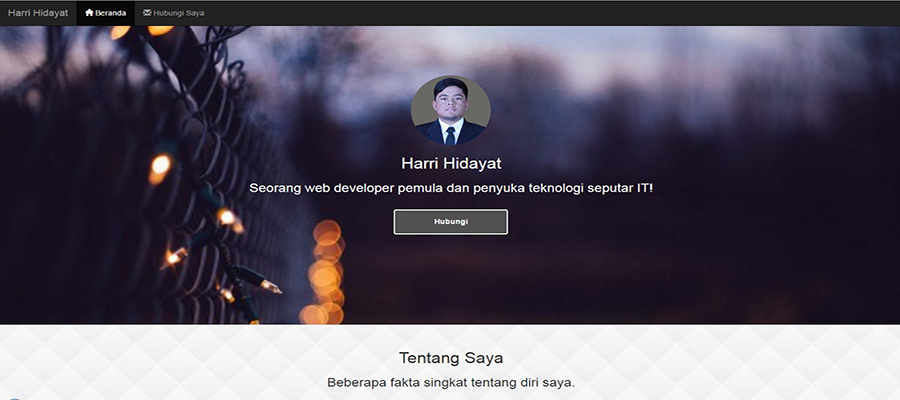
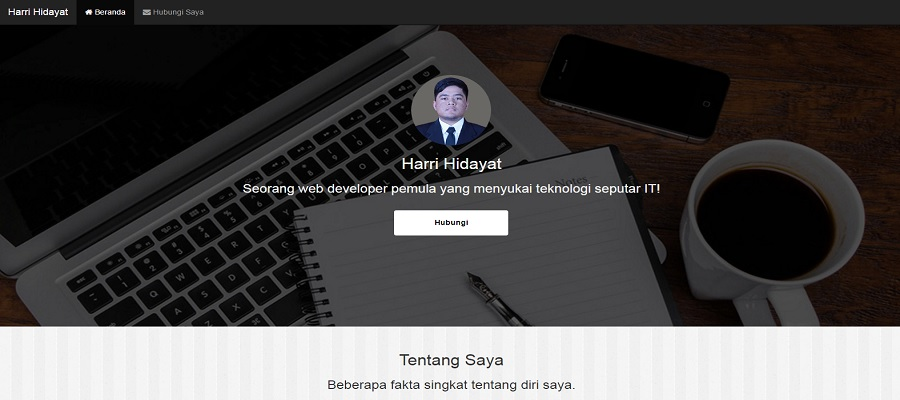
perubahan major, animasi x nav, fixed attachment, portfolio, css

diff --git a/css/style.css b/css/style.css
@@ -2,9 +2,11 @@ body {
 	background-image: url('../img/bg2.jpg');
 	z-index: -1;
 	max-width: 100%;
-    height: auto;
-	background-position: fixed;
-	background-size: cover;
+    /*height: auto;*/
+	background-attachment: fixed;
+    background-position: center;
+	/*background-size: cover;*/
+	background-size: 100% 100%;
 	background-repeat: no-repeat;
 
 	/*  min-height: 2000px;*/
@@ -30,9 +32,9 @@ nav {
 }
 
 .pemotong {
-	background-image: url('../img/bg.jpg');
+	/*background-image: url('../img/bg.jpg');
 	background-size: cover;
-	background-repeat: no-repeat;
+	background-repeat: no-repeat;*/
 	width: 100%;
 	height: 60px;
 
@@ -44,6 +46,8 @@ nav {
 	background-repeat: no-repeat;
 	width: 100%;
 	height: 600px;
+	background-attachment: fixed;
+    background-position: center;
 }
 
 #tombolawal {
@@ -66,7 +70,7 @@ nav {
 
 #tentang {
 	background-image: url(../img/whitebg.jpg);
-	background-size: cover;
+	/*background-size: cover;*/
 	width: 100%;
 }
 
@@ -88,7 +92,7 @@ nav {
 
 #kemampuan {
 	background-image: url(../img/whitebg.jpg);
-	background-size: cover;
+	/*background-size: cover;*/
 	width: 100%;
 	padding-bottom: 30px;
 }
@@ -107,7 +111,7 @@ nav {
 
 #portofolio {
 	background-image: url(../img/whitebg.jpg);
-	background-size: cover;
+	/*background-size: cover;*/
 	width: 100%;
 	padding-bottom: 30px;
 }
@@ -192,4 +196,38 @@ nav {
 
 .texttebal {
 	font-weight: 600;
+}
+
+/*navbar x animation  toggle*/
+
+.navbar-toggle {
+  border: none;
+  background: transparent !important;
+}
+.navbar-toggle:hover {
+  background: transparent !important;
+}
+.navbar-toggle .icon-bar {
+  width: 22px;
+  transition: all 0.2s;
+}
+.navbar-toggle .top-bar {
+  transform: rotate(45deg);
+  transform-origin: 10% 10%;
+}
+.navbar-toggle .middle-bar {
+  opacity: 0;
+}
+.navbar-toggle .bottom-bar {
+  transform: rotate(-45deg);
+  transform-origin: 10% 90%;
+}
+.navbar-toggle.collapsed .top-bar {
+  transform: rotate(0);
+}
+.navbar-toggle.collapsed .middle-bar {
+  opacity: 1;
+}
+.navbar-toggle.collapsed .bottom-bar {
+  transform: rotate(0);
 }

diff --git a/index.php b/index.php
@@ -18,10 +18,10 @@
 
     <nav class="navbar navbar-inverse navbar-fixed-top">
       <div class="navbar-header">
-        <button type="button" class="navbar-toggle" data-toggle="collapse" data-target="#target-list">
-          <span class="icon-bar"></span>
-          <span class="icon-bar"></span>
-          <span class="icon-bar"></span>
+        <button type="button" class="navbar-toggle collapsed" data-toggle="collapse" data-target="#target-list">
+          <span class="icon-bar top-bar"></span>
+          <span class="icon-bar middle-bar"></span>
+          <span class="icon-bar bottom-bar"></span>
         </button>
         <a href="index.php" class="navbar-brand">Harri Hidayat</a>
       </div>
@@ -224,7 +224,7 @@
             </div>
 
             <div class="col-md-1">
-              <h4>Github</h4>
+              <h4>GitHub</h4>
             </div>
             <div class="col-md-11 kemampuanprogress">
               <div class="progress">
@@ -316,7 +316,7 @@
 
           <div class="col-md-4 text-center">
           <img  src="img/github.png" alt="Generic placeholder image">
-          <h2>Github</h2>
+          <h2>GitHub</h2>
           <br>
           <a id="tomboltemui2" class="btn btn-default" href="https://github.com/harrihidayat/" target="_blank" role="button">Ikuti Saya</a>
           </div>

diff --git a/contact.php b/contact.php
@@ -51,10 +51,10 @@ if (isset($_POST['kirim'])) {
 
     <nav class="navbar navbar-inverse navbar-fixed-top">
       <div class="navbar-header">
-        <button type="button" class="navbar-toggle" data-toggle="collapse" data-target="#target-list">
-          <span class="icon-bar"></span>
-          <span class="icon-bar"></span>
-          <span class="icon-bar"></span>
+        <button type="button" class="navbar-toggle collapsed" data-toggle="collapse" data-target="#target-list">
+          <span class="icon-bar top-bar"></span>
+          <span class="icon-bar middle-bar"></span>
+          <span class="icon-bar bottom-bar"></span>
         </button>
         <a href="index.php" class="navbar-brand">Harri Hidayat</a>
       </div>
